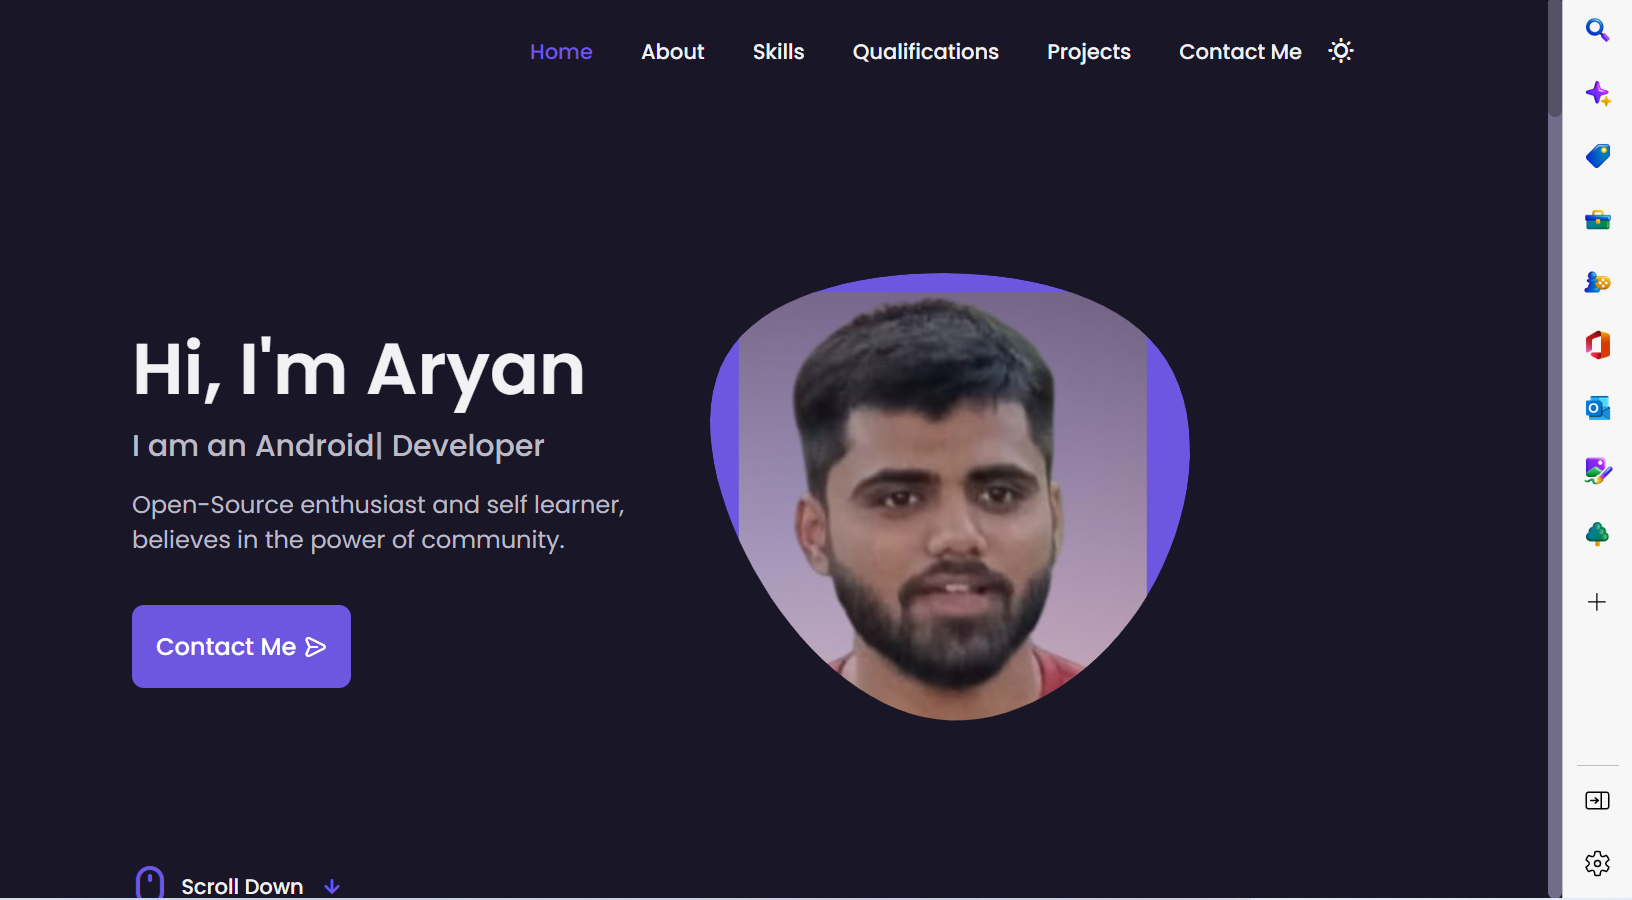
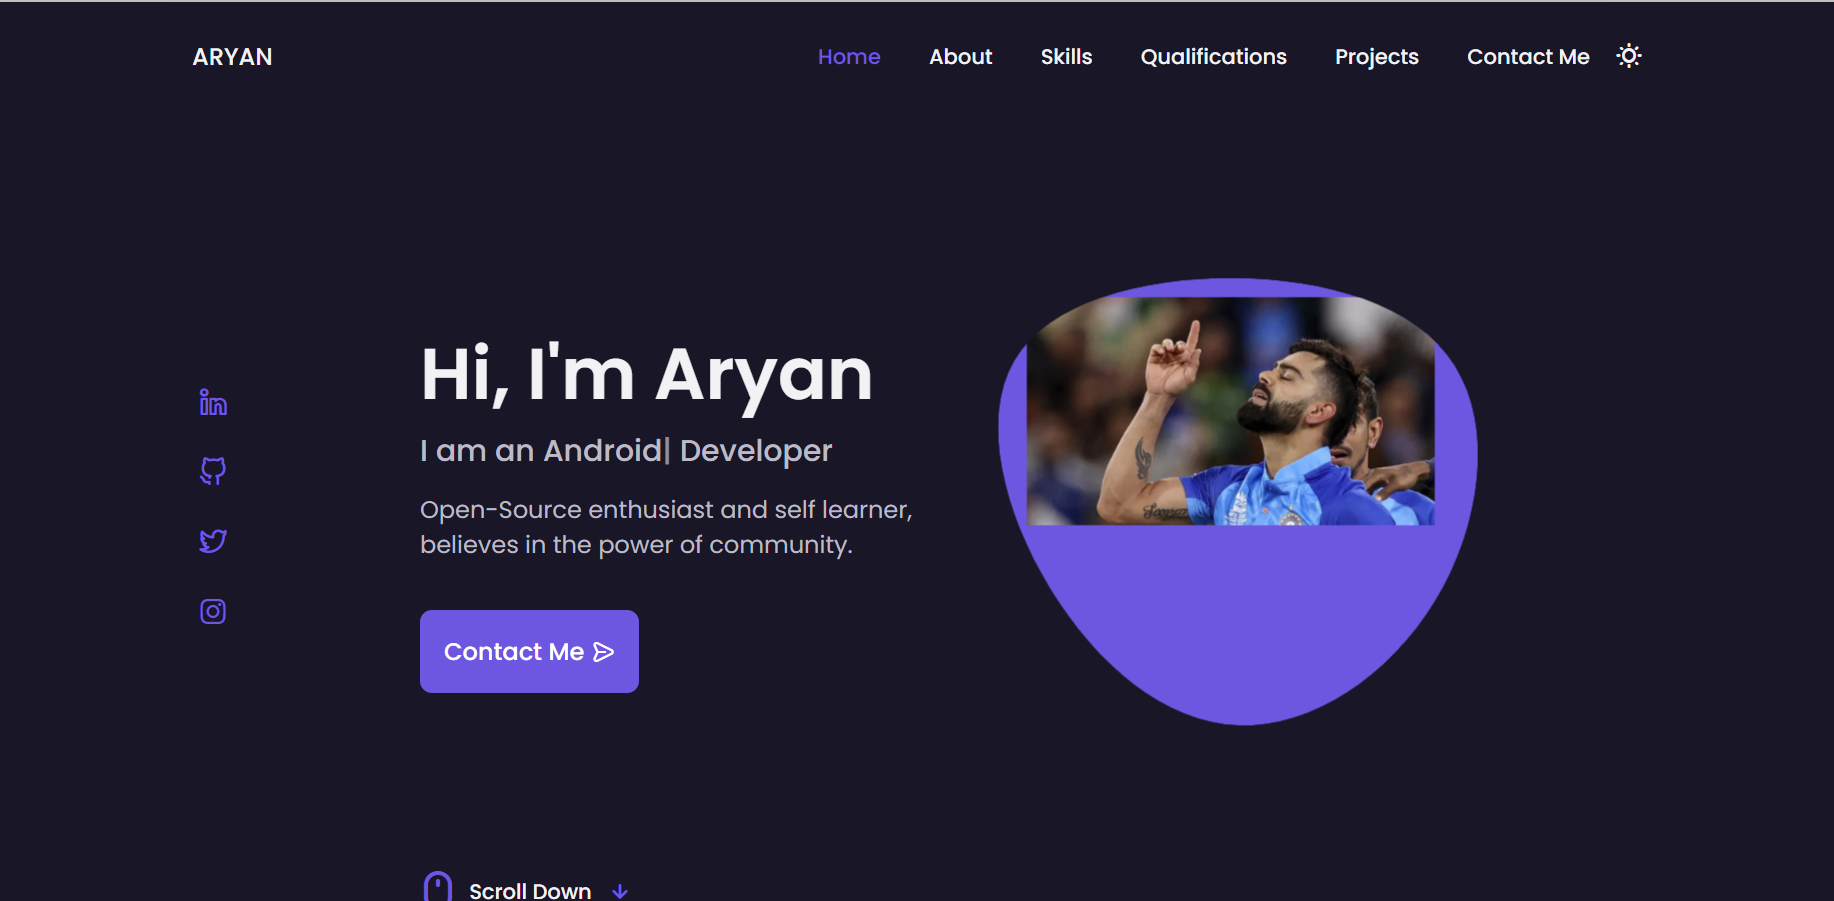
text changes

diff --git a/index.html b/index.html
@@ -20,7 +20,7 @@
     content="https://cdn.bio.link/uploads/profile_pictures/2021-09-01/tE8wirBYKrXgipi0HP0GK69YD9TzfsDY.png" />
   <meta property="og:image"
     content="https://cdn.bio.link/uploads/profile_pictures/2021-09-01/tE8wirBYKrXgipi0HP0GK69YD9TzfsDY.png" />
-  <meta property="profile:username" content="aryansharmaind" />
+  <meta property="profile:username" content="imvkohli" />
   <meta name="twitter:card" content="summary" />
   <meta name="twitter:title" content="Aryan Sharma" />
   <meta name="twitter:image"
@@ -96,7 +96,7 @@
       <div class="home_container container grid">
         <div class="home_content grid">
           <div class="home_social">
-            <a href="https://www.linkedin.com/in/aryansharmaind/" class="home_social-icon" target="_blank">
+            <a href="https://www.linkedin.com/" class="home_social-icon" target="_blank">
               <i class="uil uil-linkedin-alt"></i>
             </a>
 
@@ -104,11 +104,11 @@
               <i class="uil uil-github-alt"></i>
             </a>
 
-            <a href="https://twitter.com/aryansharmaind/" class="home_social-icon" target="_blank">
+            <a href="https://twitter.com/imvkohli/" class="home_social-icon" target="_blank">
               <i class="uil uil-twitter-alt"></i>
             </a>
 
-            <a href="https://www.instagram.com/aryansharmainsta/" class="home_social-icon" target="_blank">
+            <a href="https://www.instagram.com/virat.kohli/" class="home_social-icon" target="_blank">
               <i class="uil uil-instagram"></i>
             </a>
           </div>
@@ -728,13 +728,13 @@
         </ul>
 
         <div class="footer_socials">
-          <a href="https://www.linkedin.com/in/aryansharmaind/" target="_blank" class="footer_social">
+          <a href="https://www.linkedin.com/" target="_blank" class="footer_social">
             <i class="uil uil-linkedin-alt"></i>
           </a>
-          <a href="https://twitter.com/aryansharmaind/" target="_blank" class="footer_social">
+          <a href="https://twitter.com/imvkohli/" target="_blank" class="footer_social">
             <i class="uil uil-twitter-alt"></i>
           </a>
-          <a href="https://www.instagram.com/aryansharmainsta/" target="_blank" class="footer_social">
+          <a href="https://www.instagram.com/virat.kohli/" target="_blank" class="footer_social">
             <i class="uil uil-instagram"></i>
           </a>
         </div>
